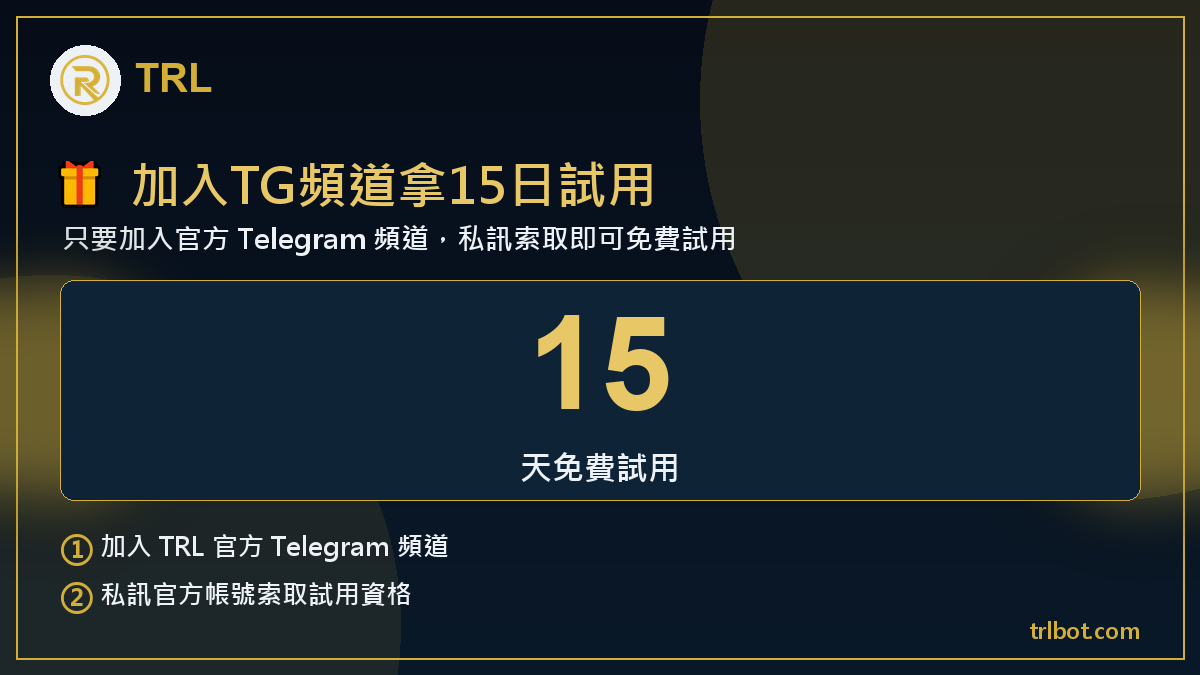
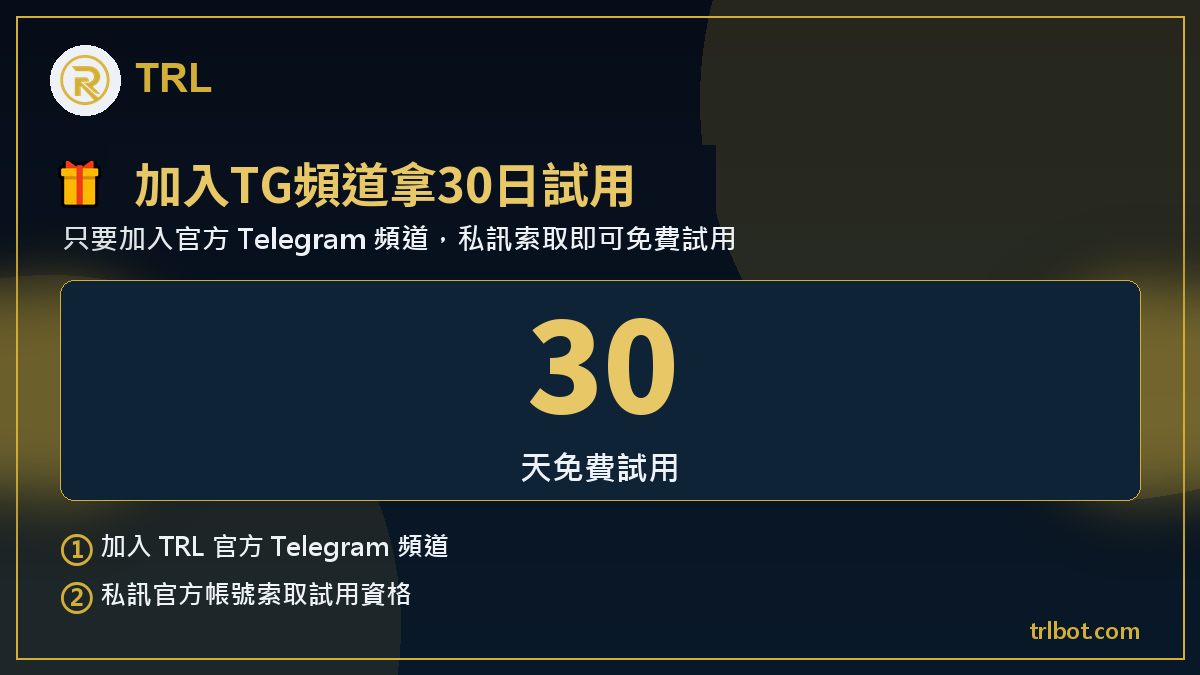
feat: extend TG channel trial event from 15 days to 30 days

diff --git a/event-tg-trial.html b/event-tg-trial.html
@@ -3,8 +3,8 @@
 <head>
 <meta charset="UTF-8">
 <meta name="viewport" content="width=device-width, initial-scale=1.0">
-<title>加入TG頻道拿15日試用 | TRL量化交易機器人 The Rich Life Bot</title>
-<meta name="description" content="TRL量化交易機器人活動：加入官方 Telegram 頻道並私訊索取，即可免費試用 15 天。">
+<title>加入TG頻道拿30日試用 | TRL量化交易機器人 The Rich Life Bot</title>
+<meta name="description" content="TRL量化交易機器人活動：加入官方 Telegram 頻道並私訊索取，即可免費試用 30 天。">
 <meta name="robots" content="index, follow">
 <link rel="canonical" href="https://trlbot.com/event-tg-trial.html">
 
@@ -54,19 +54,19 @@
 
     <div class="announcement-card">
       <p class="announcement-date">2026.07.19</p>
-      <h1 class="announcement-title">🎁 加入TG頻道拿15日試用</h1>
-      <p class="announcement-lead">只要加入 TRL 官方 Telegram 頻道，並私訊官方帳號索取，即可免費試用 TRL量化交易機器人 15 天，不用先付費就能親自體驗紀律化自動交易。</p>
+      <h1 class="announcement-title">🎁 加入TG頻道拿30日試用</h1>
+      <p class="announcement-lead">只要加入 TRL 官方 Telegram 頻道，並私訊官方帳號索取，即可免費試用 TRL量化交易機器人 30 天，不用先付費就能親自體驗紀律化自動交易。</p>
 
-      <img src="assets/dm-tg-15day-trial.png" alt="加入TG頻道拿15日試用" class="announcement-banner">
+      <img src="assets/dm-tg-15day-trial.png" alt="加入TG頻道拿30日試用" class="announcement-banner">
 
       <h4 class="announcement-subhead">參加方式</h4>
       <ul class="announcement-rules">
         <li>① 加入 TRL 官方 Telegram 頻道</li>
         <li>② 私訊官方帳號索取試用資格</li>
-        <li>③ 客服確認後，立即開通 15 天完整試用期</li>
+        <li>③ 客服確認後，立即開通 30 天完整試用期</li>
       </ul>
 
-      <p class="announcement-note">⚠ 每位用戶僅限申請一次 15 天試用資格，試用期間功能與正式版本相同，到期後可依個人需求選擇合適的授權方案繼續使用。</p>
+      <p class="announcement-note">⚠ 每位用戶僅限申請一次 30 天試用資格，試用期間功能與正式版本相同，到期後可依個人需求選擇合適的授權方案繼續使用。</p>
       <p class="announcement-note">活動結束時間將不另外通知，想先體驗看看的朋友請把握機會。</p>
     </div>
   </div>

diff --git a/events.html b/events.html
@@ -57,7 +57,7 @@
       <a href="event-tg-trial.html" class="announcement-card">
         <span class="announcement-date">2026.07.19</span>
         <span class="announcement-divider"></span>
-        <h3 class="announcement-title">🎁 加入TG頻道拿15日試用</h3>
+        <h3 class="announcement-title">🎁 加入TG頻道拿30日試用</h3>
       </a>
       <a href="event-referral-promo.html" class="announcement-card">
         <span class="announcement-date">2026.07.18</span>
